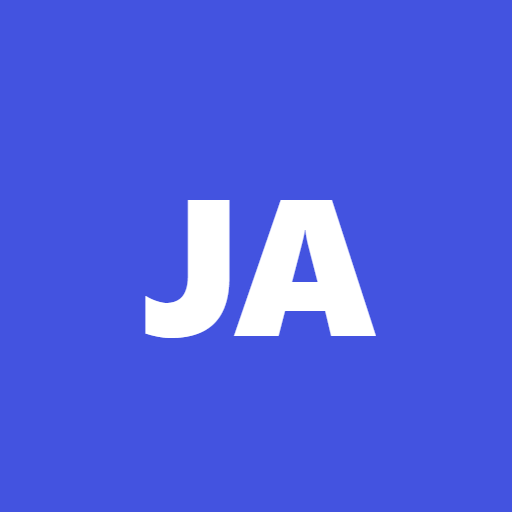
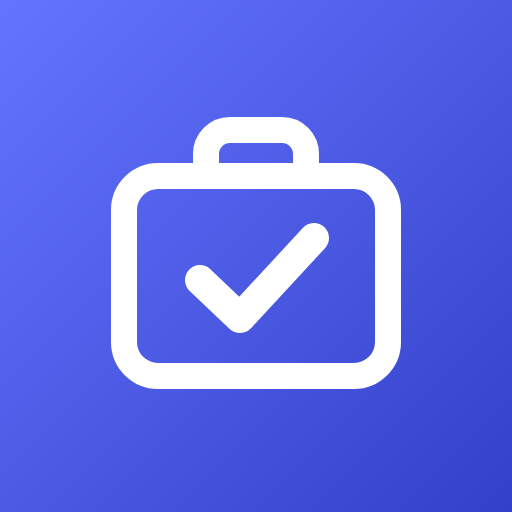
Update the phone app

Changed region(s): [[0.2188, 0.2188, 0.7812, 0.7812], [0.0, 0.0, 0.375, 0.375]]

diff --git a/index.html b/index.html
@@ -245,7 +245,7 @@ function render(){const app=$("app");
   bindMain();if(keepScroll!=null)scrollTo(0,keepScroll)}
 
 /* setup and sign-in */
-function setupHtml(){return `<div class="auth"><div class="logo">JA</div><h1>Connect to your data</h1>
+function setupHtml(){return `<div class="auth"><img class="logo" src="icon-192.png" alt=""><h1>Connect to your data</h1>
   <p class="meta">Once, on this phone: your Supabase project URL and publishable key (Supabase → Project Settings → API Keys). They stay on this phone.</p>
   <form id="setup"><label class="field"><span>Project URL</span><input class="in" id="su" type="url" inputmode="url" autocomplete="off" required placeholder="https://xxxx.supabase.co"></label>
   <label class="field"><span>Publishable key</span><input class="in" id="sk" autocomplete="off" autocapitalize="off" spellcheck="false" required placeholder="sb_publishable_…"></label>
@@ -255,7 +255,7 @@ function bindSetup(){$("setup").onsubmit=e=>{e.preventDefault();const url=$("su"
   if(!/^https:\/\/[a-z0-9-]+\.supabase\.co$/i.test(url)&&!/^http:\/\/(127\.0\.0\.1|localhost)(:\d+)?(\/\w+)?$/.test(url)){   /* localhost: Job Agent's own tests */$("serr").textContent="The project URL looks like https://xxxx.supabase.co";$("serr").classList.remove("hide");return}
   if(/^sb_secret_/i.test(key)){$("serr").textContent="That's the secret key: use the publishable one.";$("serr").classList.remove("hide");return}
   cfg={url,key};LS.set("cfg",cfg);render()}}
-function signInHtml(){return `<div class="auth"><div class="logo">JA</div><h1>Sign in</h1><p class="meta">With the login you created in Supabase. You stay signed in on this phone.</p>
+function signInHtml(){return `<div class="auth"><img class="logo" src="icon-192.png" alt=""><h1>Sign in</h1><p class="meta">With the login you created in Supabase. You stay signed in on this phone.</p>
   <form id="signin"><label class="field"><span>Email</span><input class="in" id="em" type="email" autocomplete="username" required></label>
   <label class="field"><span>Password</span><input class="in" id="pw" type="password" autocomplete="current-password" required></label>
   <p class="err hide" id="err"></p><button class="btn primary block" id="sib">Sign in</button></form>

diff --git a/sw.js b/sw.js
@@ -1,6 +1,6 @@
 // Job Agent phone app: keeps the app's own files on the phone so it opens offline. Your data isn't cached here
 // (the page keeps the last loaded list itself); requests to Supabase always go to the network.
-const CACHE = "job-agent-v1";
+const CACHE = "job-agent-v2";
 const FILES = ["./", "./index.html", "./manifest.webmanifest", "./icon-180.png", "./icon-192.png", "./icon-512.png"];
 self.addEventListener("install", e => { e.waitUntil(caches.open(CACHE).then(c => c.addAll(FILES))); self.skipWaiting(); });
 self.addEventListener("activate", e => {
